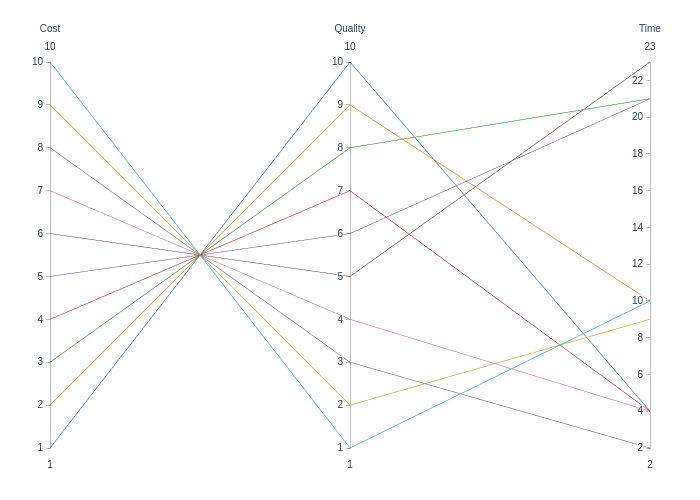
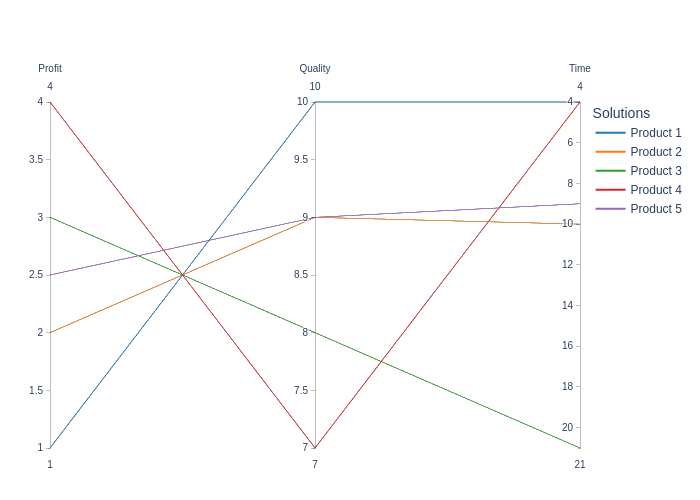
change: improve parallel coordinates plotting
Specify color and name of each solution, and set sense_set to reorder each objective range when necessary

diff --git a/README.md b/README.md
@@ -185,15 +185,16 @@ To evaluate the quality of the obtained Pareto frontiers, you can use the plotti
 Its important to clarify that the methods implemented here assume the frontier set $F$ is a $m × n$ matrix, where each of the $m$ rows corresponds to an specific objective, and each of the $n$ solutions is represented by a column.
 
 ### Plot Results
+This module leverages `PlotlyJS.jl` to generate interactive visualizations of Pareto frontiers.
 
-There are a variety of plotting functions available in the `JuMENTO.MultiPlots` module that can be used to visualize the Pareto frontiers. The options implemented are:
- - Scatter plots;
+The `JuMENTO.MultiPlots` module provides a suite of plotting functions designed to analyze objective space trade-offs. The implemented visualization types include:
+ - Scatter plots (2 to 3 objectives);
  - Parallel coordinate plots;
- - Radar charts;
+ - Radar charts (Spider plots);
  - Level diagrams.
 
 The following sections show how to use some of the plotting functions defined in the `JuMENTO.MultiPlots` module.
-To further explore the plotting capabilities, you can check the documentation of each plotting function.
+For a comprehensive technical overview of specific parameters, please refer to the internal documentation for each function.
 
 #### Radar Charts
 
@@ -230,14 +231,17 @@ frontier_set = [
     10 9 8 7 6 5 4 3 2 1;
     4 10 21 4 21 23 4 2 9 10
 ]
-cats = ["Cost", "Quality", "Time"]
-fig = MultiPlots.parallel_coordinates(frontier_set, categories=cats)
+
+cats = ["Profit", "Quality", "Time"] # Optional, default is f_1, f_2 ...
+sens = [:max, :max, :min] # Optional, default is :max for every objective
+names = ["Product $j" for j in axes(frontier_set, 2)] # Optional, default is 'Solution 1', 'Solution 2' ...
+
+fig = MultiPlots.parallel_coordinates(frontier_set, categories=cats, sense_set=sens, name_set=names)
 ```
 
 The resulting figure would look like this:
 
 ![Parallel Coordinate Plot](images/parallel_coordinates.png)
-
 
 #### Scatter Plots
 
